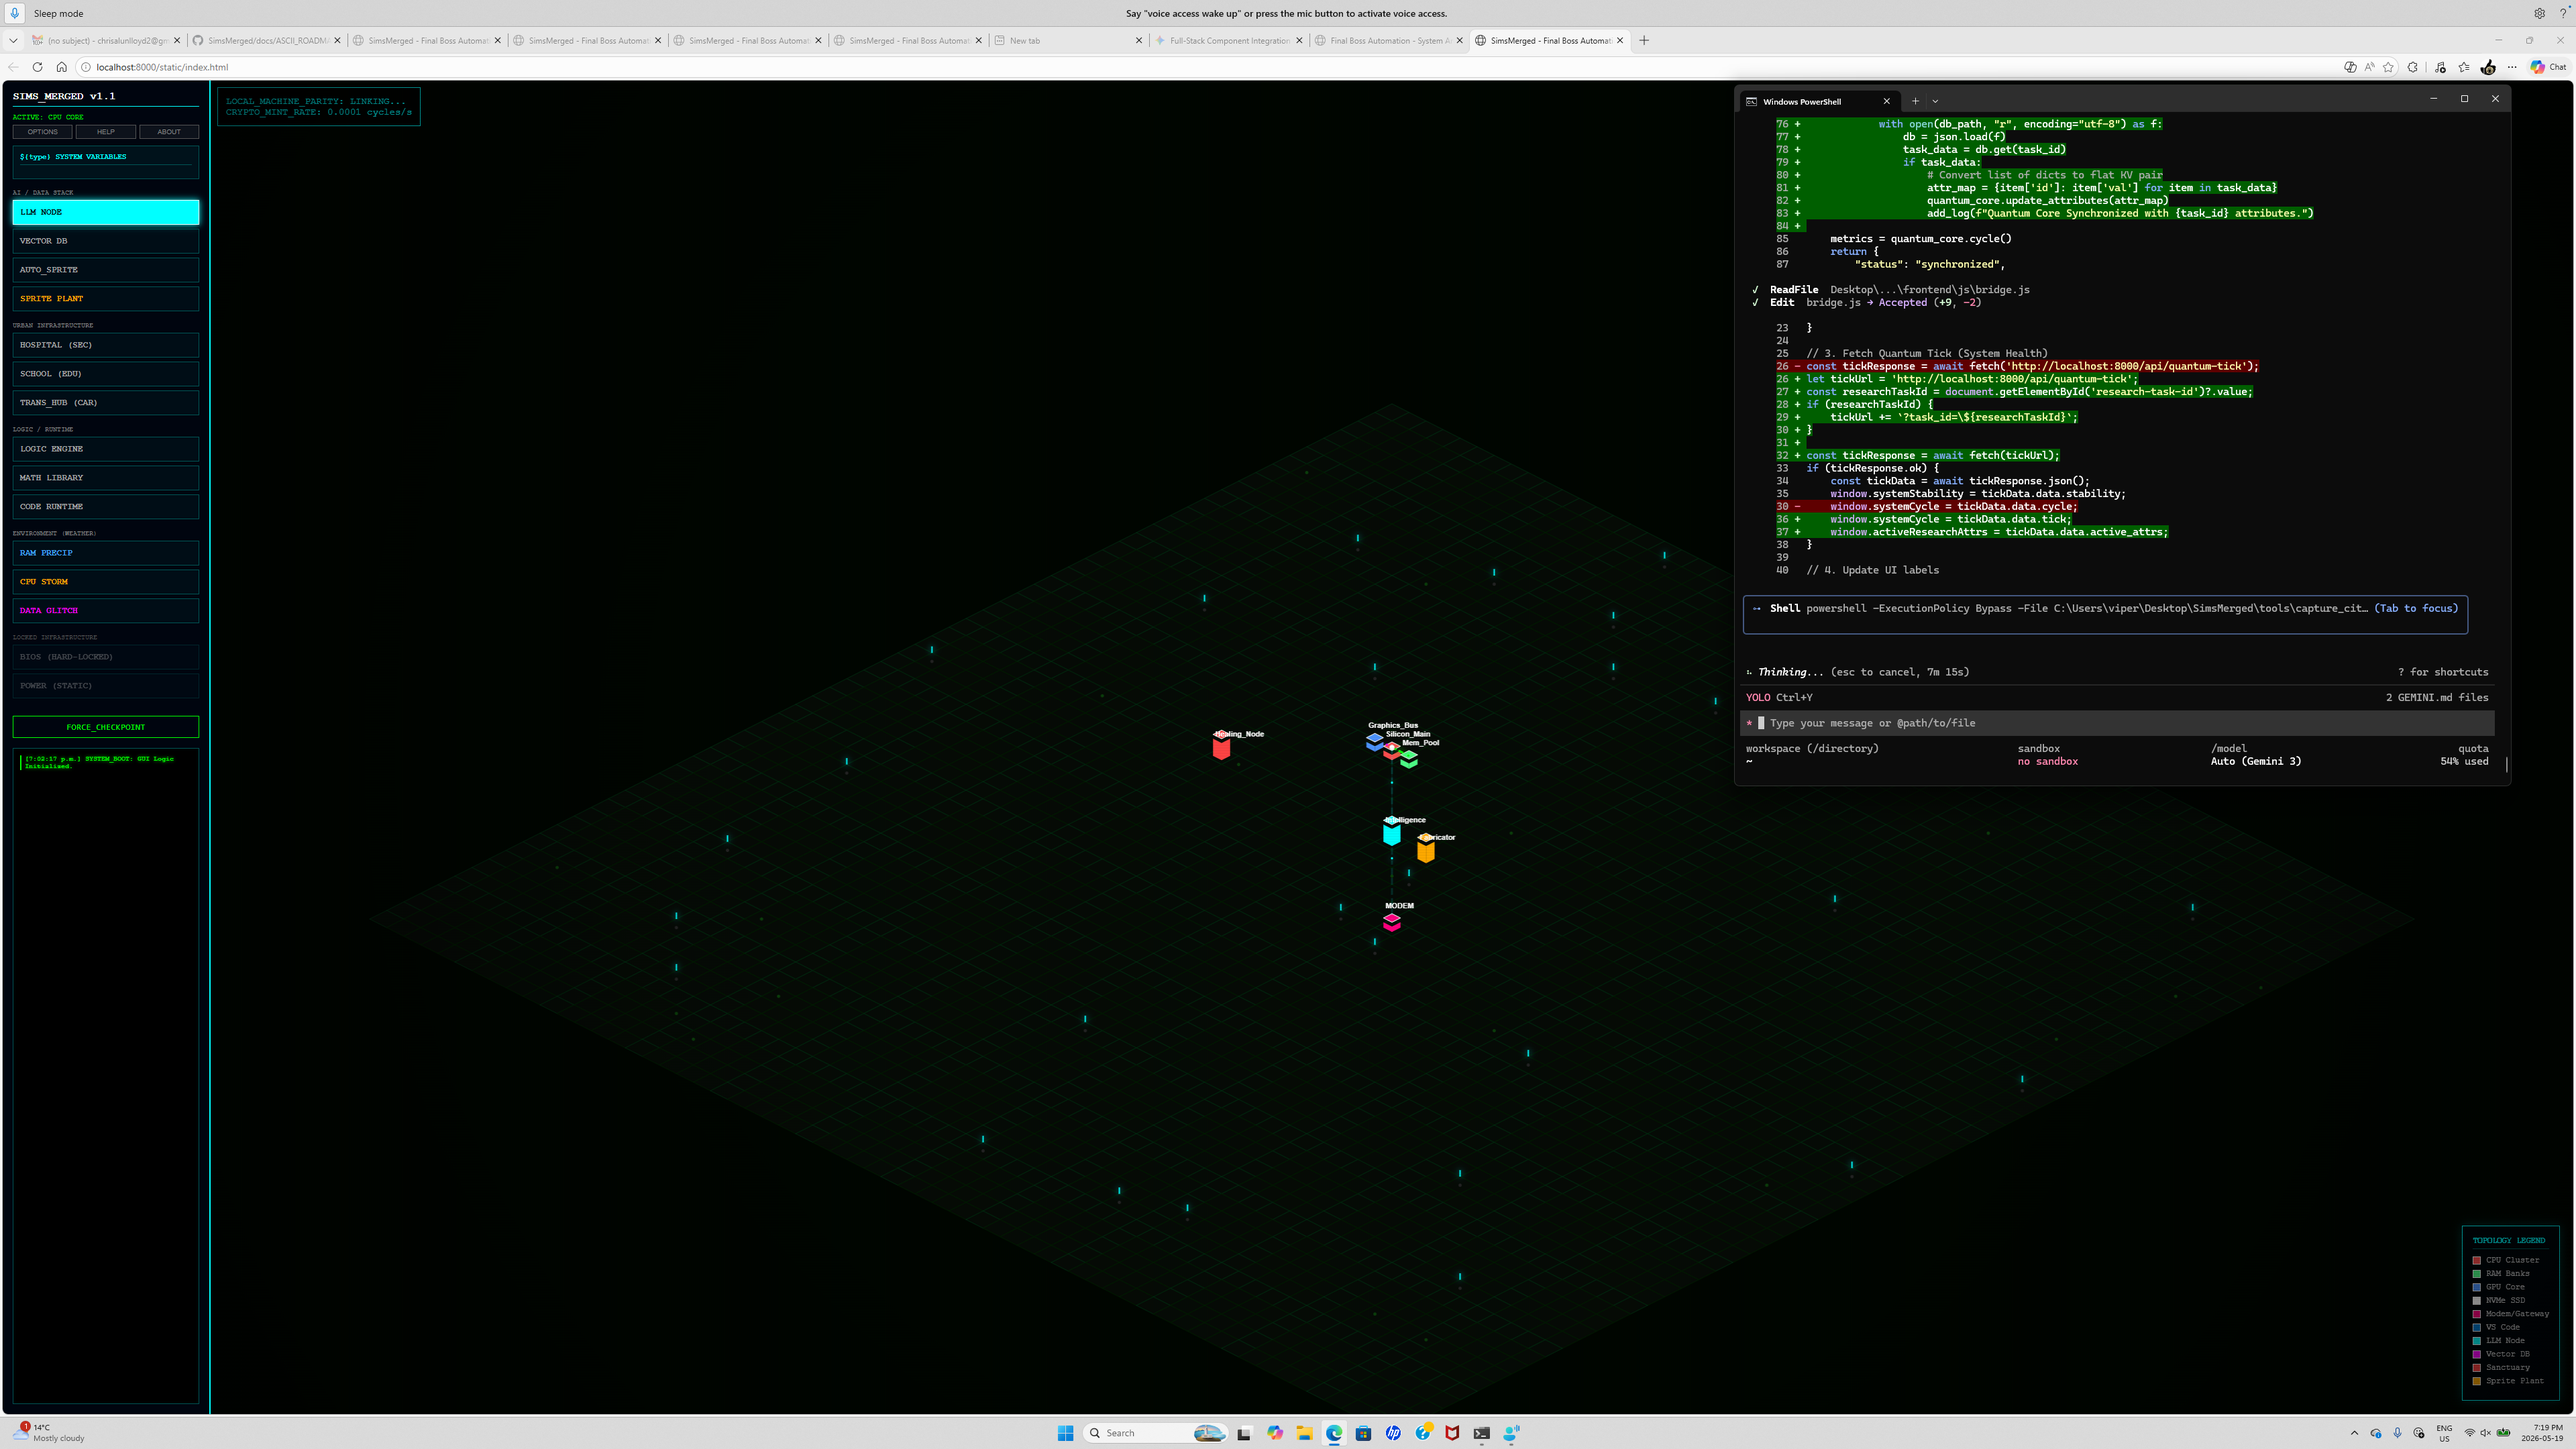
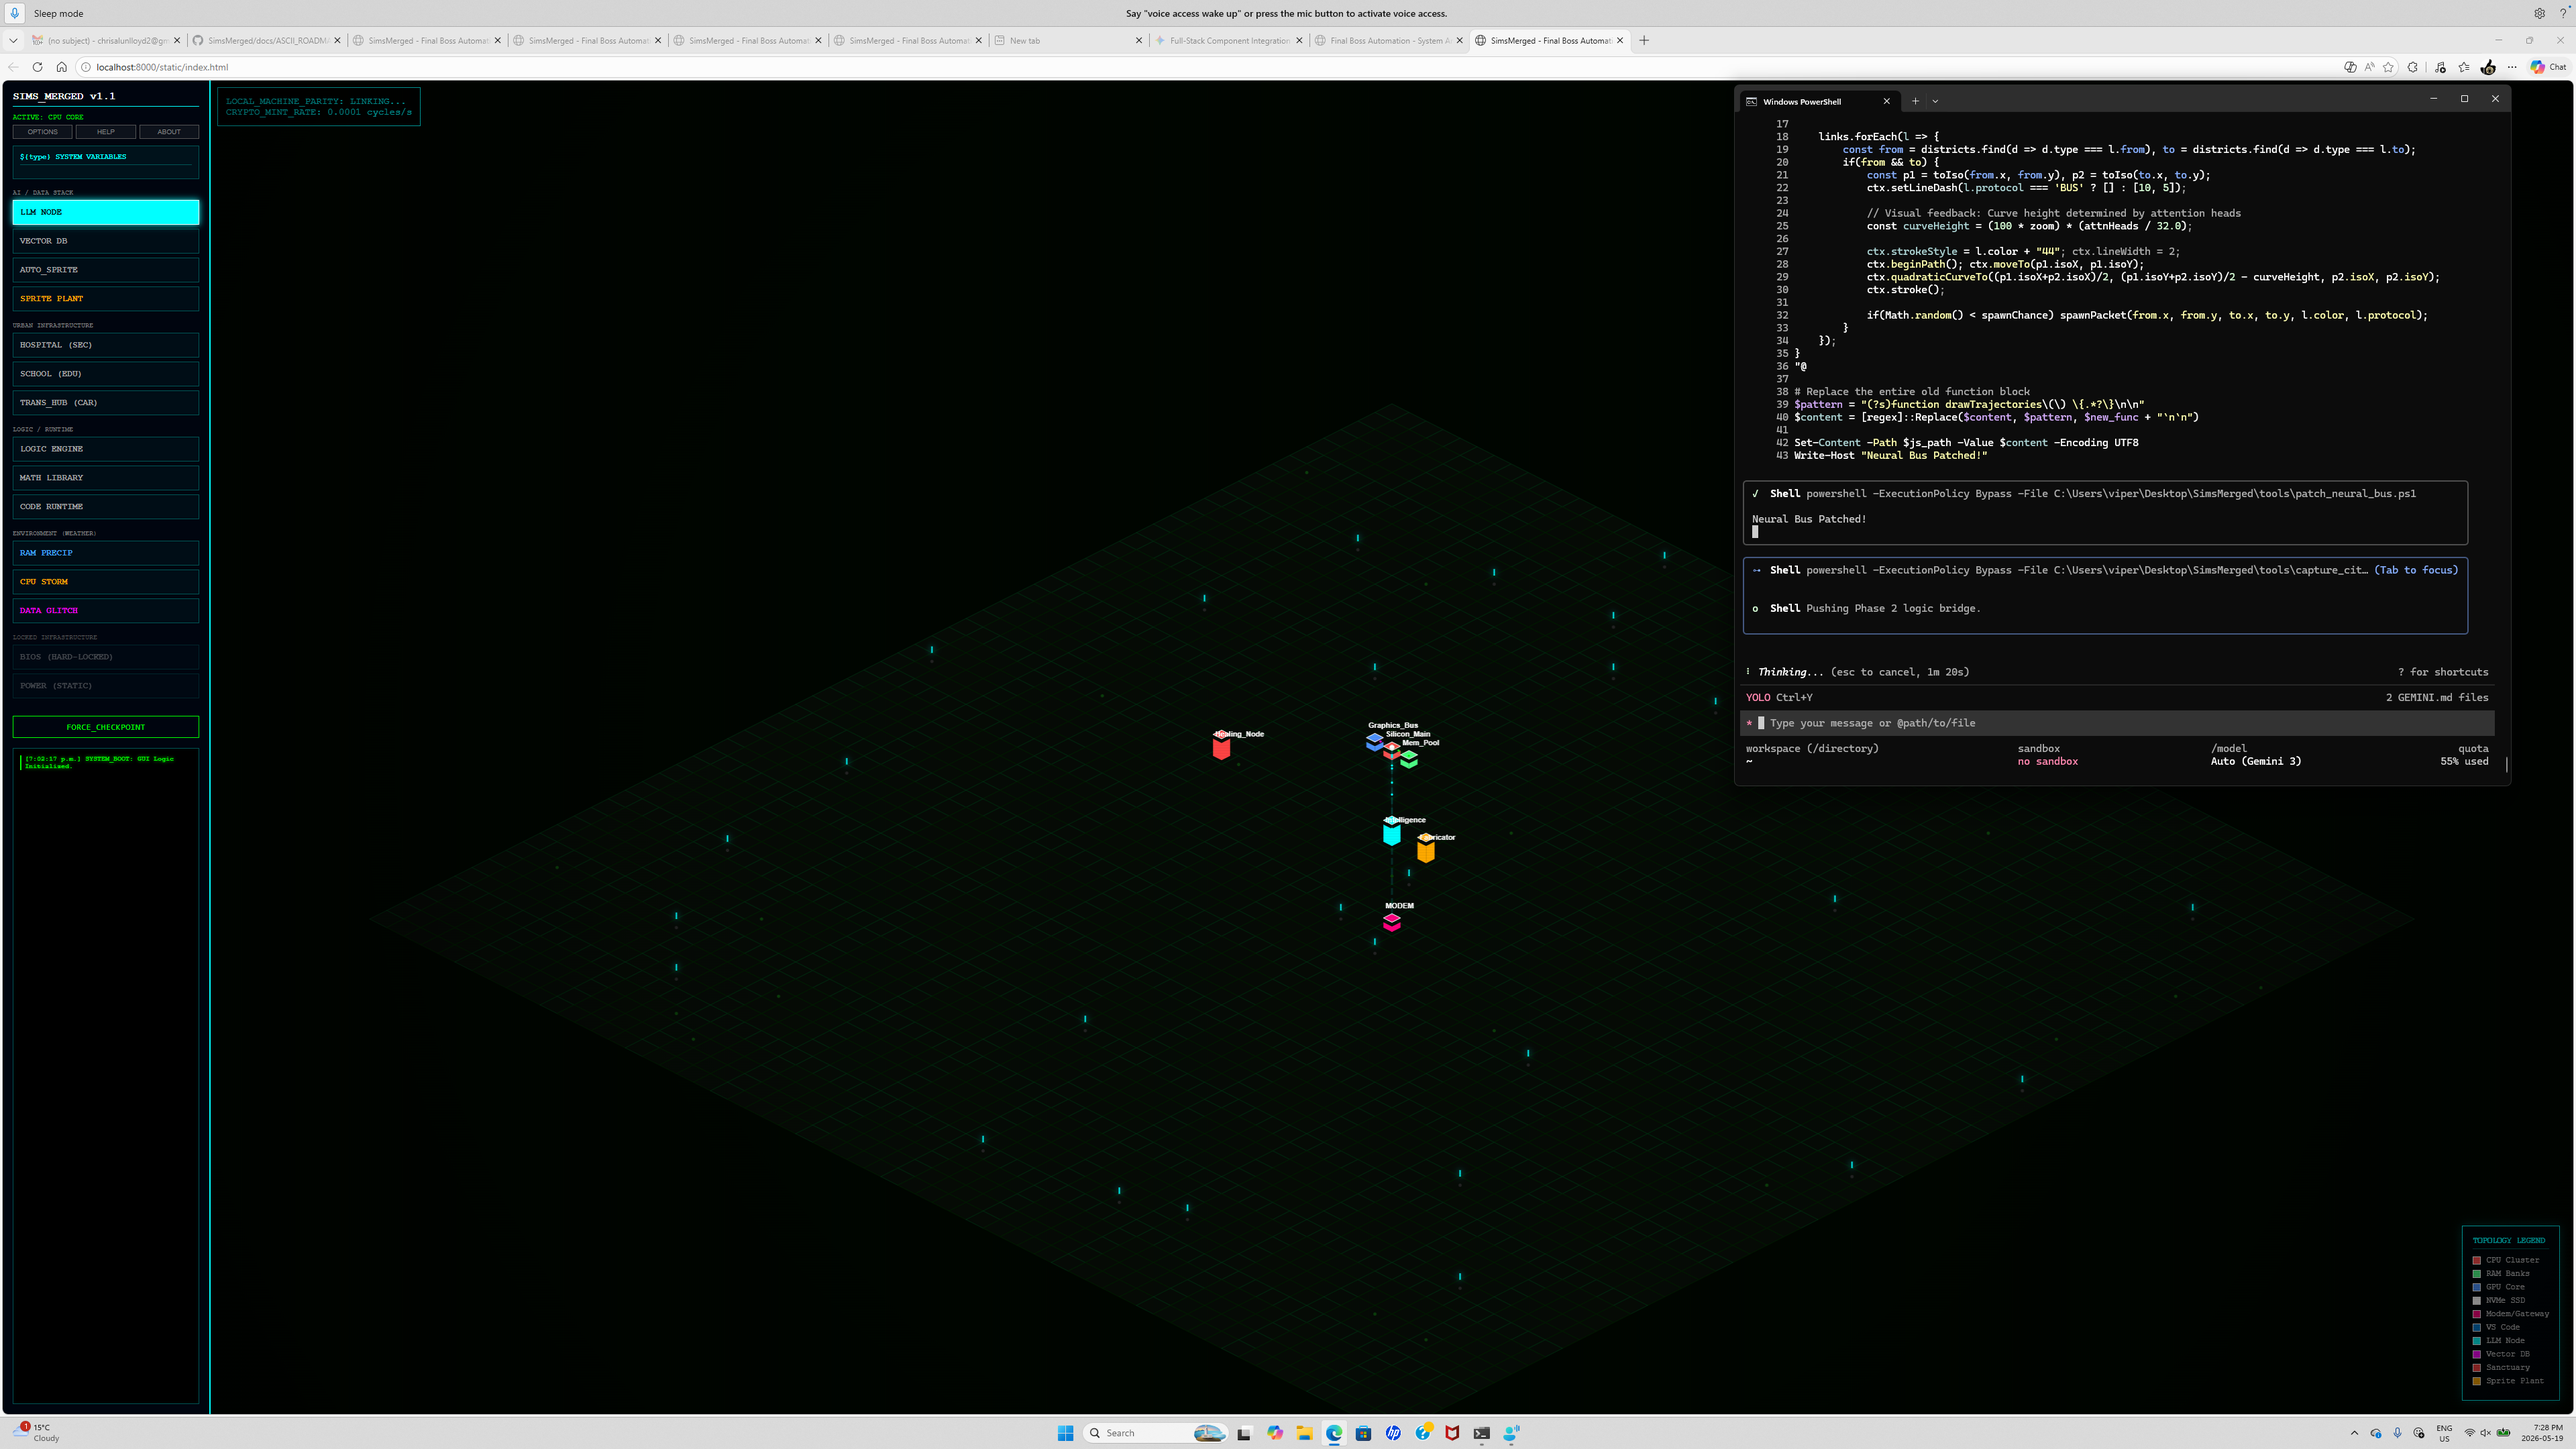
feat: Reactive Neural Bus trajectories based on Phase 2 research settings

Changed region(s): [[0.6875, 0.062, 0.9375, 0.4343], [0.0, 0.9926, 0.0312, 1.0]]

diff --git a/frontend/js/engine.js b/frontend/js/engine.js
@@ -383,3 +383,4 @@ if (legendContent) {
 window.agents = [ { x: 0, y: 0, name: 'ADMIN_ROOT', role: 'ADMIN' } ];
 draw();
 
+

diff --git a/tools/patch_neural_bus.py b/tools/patch_neural_bus.py
@@ -1,0 +1,51 @@
+import os
+
+js_path = r"C:\Users\viper\Desktop\SimsMerged\frontend\js\engine.js"
+
+with open(js_path, "r", encoding="utf-8") as f:
+    content = f.read()
+
+# We want to make spawnPacket and drawTrajectories reactive to window.activeResearchAttrs
+new_draw_trajectories = """
+function drawTrajectories() {
+    const links = window.activeLinks || [
+        { from: 'CPU', to: 'RAM', protocol: 'BUS', color: '#00ff00' },
+        { from: 'CPU', to: 'GPU', protocol: 'BUS', color: '#ff00ff' },
+        { from: 'CPU', to: 'MODEM', protocol: 'TCP/IP', color: '#00ffff' },
+        { from: 'CPU', to: 'LLM', protocol: 'BUS', color: '#00ffff' }
+    ];
+
+    // Reactive Logic from AI Attributes
+    const attnHeads = parseFloat(window.activeResearchAttrs?.heads || 32);
+    const bandwidth = parseFloat(window.activeResearchAttrs?.vocab || 128256) / 100000.0;
+    const spawnChance = 0.02 * bandwidth;
+
+    links.forEach(l => {
+        const from = districts.find(d => d.type === l.from), to = districts.find(d => d.type === l.to);
+        if(from && to) {
+            const p1 = toIso(from.x, from.y), p2 = toIso(to.x, to.y);
+            ctx.setLineDash(l.protocol === 'BUS' ? [] : [10, 5]);
+            
+            // Visual feedback: Curve height determined by attention heads
+            const curveHeight = (100 * zoom) * (attnHeads / 32.0);
+            
+            ctx.strokeStyle = l.color + "44"; ctx.lineWidth = 2;
+            ctx.beginPath(); ctx.moveTo(p1.isoX, p1.isoY); 
+            ctx.quadraticCurveTo((p1.isoX+p2.isoX)/2, (p1.isoY+p2.isoY)/2 - curveHeight, p2.isoX, p2.isoY);
+            ctx.stroke();
+            
+            if(Math.random() < spawnChance) spawnPacket(from.x, from.y, to.x, to.y, l.color, l.protocol);
+        }
+    });
+}
+"""
+
+# Replace the old function
+import re
+pattern = r"function drawTrajectories\(\) \{[\s\S]*?\}\n\n"
+content = re.sub(pattern, new_draw_trajectories + "\n", content)
+
+with open(js_path, "w", encoding="utf-8") as f:
+    f.write(content)
+
+print("Engine patched: Neural Bus is now reactive to AI attributes!")
